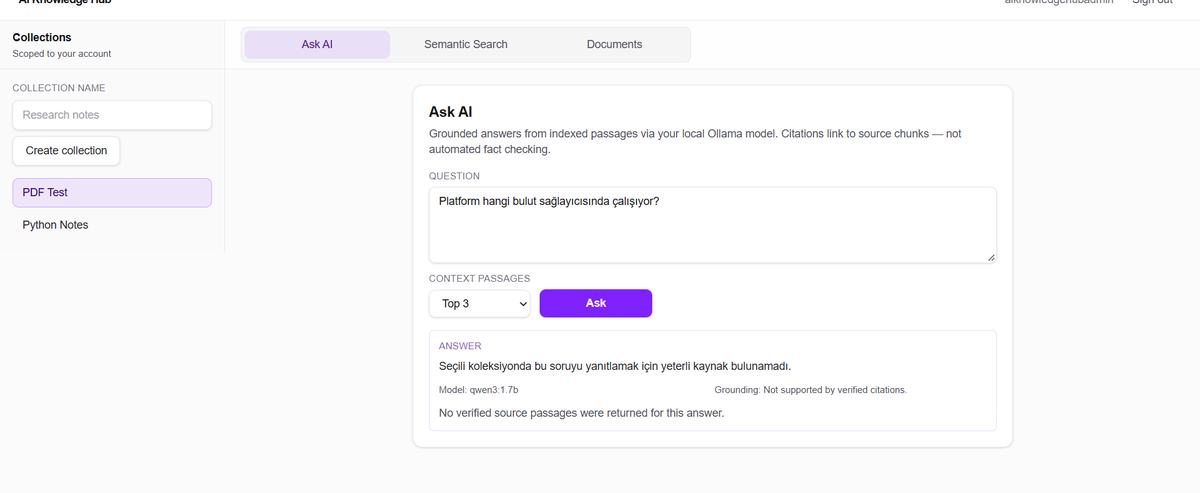
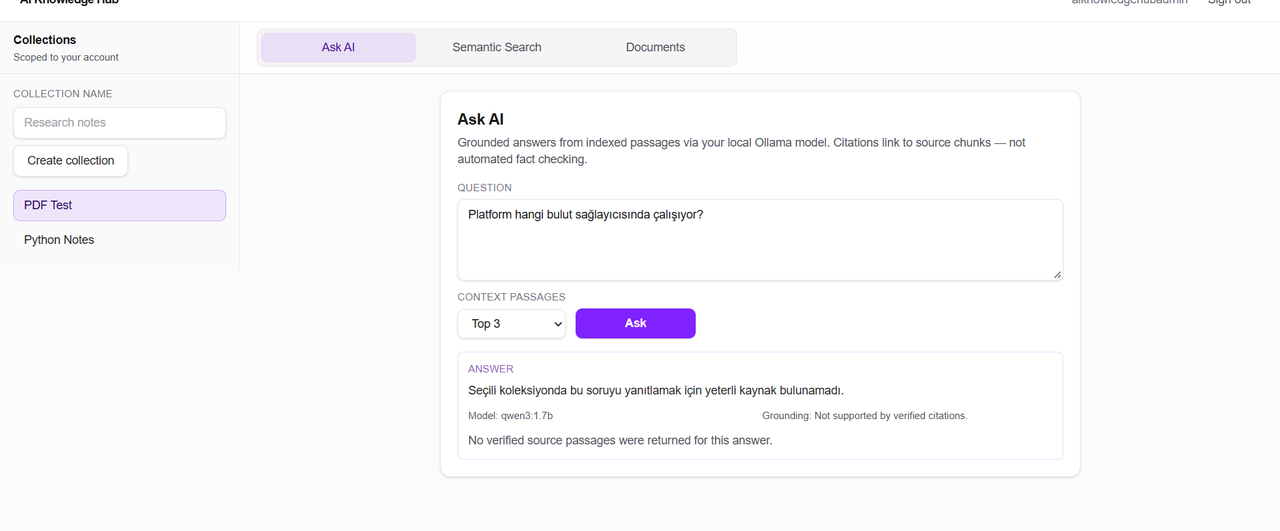
docs: README gallery, audit dates, and screenshot crops
Single-column gallery, PowerShell-friendly commands, October 2026 audit dates, looser source-evidence crop.

diff --git a/scripts/crop_portfolio_screenshots.py b/scripts/crop_portfolio_screenshots.py
@@ -10,8 +10,8 @@ OUT = REPO / "docs" / "screenshots"
 
 # Remove Chrome chrome (~top) and Windows taskbar + dev footer (~bottom).
 CHROME_TOP = 142
-FOOTER_BOTTOM = 96
-MAX_WIDTH = 1200
+FOOTER_BOTTOM = 88
+MAX_WIDTH = 1280
 
 
 def crop_app(src: str, dest: str, *, top: int = CHROME_TOP, bottom: int = FOOTER_BOTTOM) -> None:
@@ -30,7 +30,8 @@ def crop_app(src: str, dest: str, *, top: int = CHROME_TOP, bottom: int = FOOTER
 
 def main() -> None:
     crop_app("6.png", "ask-ai-grounded-answer.png")
-    crop_app("13.png", "ask-ai-source-evidence.png", bottom=110)
+    # Keep extra vertical space for expanded source passage text.
+    crop_app("13.png", "ask-ai-source-evidence.png", bottom=72)
     crop_app("9.png", "ask-ai-abstention.png")
     crop_app("3.png", "documents-indexed-pdf.png")
     crop_app("7.png", "ask-ai-numeric-fact.png")

diff --git a/README.tr.md b/README.tr.md
@@ -20,10 +20,29 @@ Aşağıdaki ekran görüntüleri, sentetik değerlendirme dosyası **`rag-test.
 
 ## Ekran görüntüleri (demo verisi)
 
-| | |
-| --- | --- |
-| ![Genişletilmiş PDF kaynağı: sayfa bilgisi ve alıntı metni](docs/screenshots/ask-ai-source-evidence.png)<br>*Kaynak **[S1]** açık: parça metni, sayfalar, kosinüs mesafesi.* | ![Belge desteklemeyen soruda güvenli çekimserlik](docs/screenshots/ask-ai-abstention.png)<br>*Doğrulanmış parça yok — uydurma cevap yok.* |
-| ![Documents sekmesinde indekslenmiş rag-test.pdf](docs/screenshots/documents-indexed-pdf.png)<br>*Yükle → işle → indeksle → **Ready**.* | ![PDF sayfa 3’ten sayısal bilgi ve atıf](docs/screenshots/ask-ai-numeric-fact.png)<br>*Tek bilgi tipi; çok parçalı sorular tutarlı yanıtlanmayabilir.* |
+### Kaynak kanıtı
+
+![Genişletilmiş PDF kaynağı: sayfa bilgisi ve alıntı metni](docs/screenshots/ask-ai-source-evidence.png)
+
+*Kaynak **[S1]** açık: parça metni, sayfalar, kosinüs mesafesi.*
+
+### Güvenli çekimserlik
+
+![Belge desteklemeyen soruda güvenli çekimserlik](docs/screenshots/ask-ai-abstention.png)
+
+*Doğrulanmış parça yok — uydurma cevap yok.*
+
+### Arama için hazır belge
+
+![Documents sekmesinde indekslenmiş rag-test.pdf](docs/screenshots/documents-indexed-pdf.png)
+
+*Yükle → işle → indeksle → **Ready**.*
+
+### Sayısal bilgi ve atıf
+
+![PDF sayfa 3’ten sayısal bilgi ve atıf](docs/screenshots/ask-ai-numeric-fact.png)
+
+*Tek bilgi tipi; çok parçalı sorular tutarlı yanıtlanmayabilir.*
 
 ## Belgeler yanıta nasıl dönüşür?
 
@@ -70,8 +89,14 @@ apps/web ──JWT/REST──► services/api ◄──► PostgreSQL (pgvector)
 Ayrıntı: [`docs/QUALITY_AUDIT.md`](docs/QUALITY_AUDIT.md)
 
 ```powershell
-npm run lint && npm run typecheck && npm run test --workspace=web && npm run build
-cd services/api && uv run ruff check . && uv run pytest && uv run pytest -m integration
+npm run lint
+npm run typecheck
+npm run test --workspace=web
+npm run build
+cd services\api
+uv run ruff check .
+uv run pytest
+uv run pytest -m integration
 ```
 
 ## Yerel kurulum

diff --git a/README.md b/README.md
@@ -22,10 +22,29 @@ Screenshots below use the synthetic evaluation PDF **`rag-test.pdf`** (fictional
 
 ## Screenshots (demonstration data)
 
-| | |
-| --- | --- |
-| ![Expanded PDF source passage with page metadata and retrieval rank](docs/screenshots/ask-ai-source-evidence.png)<br>*Source **[S1]** expanded: chunk text, pages, cosine distance.* | ![Safe abstention when the document does not support the question](docs/screenshots/ask-ai-abstention.png)<br>*No verified passages — the app refuses to invent an answer.* |
-| ![Indexed rag-test.pdf in the Documents tab](docs/screenshots/documents-indexed-pdf.png)<br>*Upload → process → index → **Ready**.* | ![Grounded numeric fact with citation to PDF page 3](docs/screenshots/ask-ai-numeric-fact.png)<br>*Single-fact retrieval; multi-part questions are not consistently handled.* |
+### Source evidence
+
+![Expanded PDF source passage with page metadata and retrieval rank](docs/screenshots/ask-ai-source-evidence.png)
+
+*Source **[S1]** expanded: chunk text, pages, cosine distance.*
+
+### Safe abstention
+
+![Safe abstention when the document does not support the question](docs/screenshots/ask-ai-abstention.png)
+
+*No verified passages — the app refuses to invent an answer.*
+
+### Document ready for search
+
+![Indexed rag-test.pdf in the Documents tab](docs/screenshots/documents-indexed-pdf.png)
+
+*Upload → process → index → **Ready**.*
+
+### Grounded numeric fact
+
+![Grounded numeric fact with citation to PDF page 3](docs/screenshots/ask-ai-numeric-fact.png)
+
+*Single-fact retrieval; multi-part questions are not consistently handled.*
 
 ## How documents become answers
 
@@ -72,8 +91,14 @@ On every push to `main`:
 Details: [`docs/QUALITY_AUDIT.md`](docs/QUALITY_AUDIT.md)
 
 ```powershell
-npm run lint && npm run typecheck && npm run test --workspace=web && npm run build
-cd services/api && uv run ruff check . && uv run pytest && uv run pytest -m integration
+npm run lint
+npm run typecheck
+npm run test --workspace=web
+npm run build
+cd services\api
+uv run ruff check .
+uv run pytest
+uv run pytest -m integration
 ```
 
 ## Local setup

diff --git a/docs/HANDOFF.md b/docs/HANDOFF.md
@@ -454,7 +454,7 @@ POST /collections/{collection_id}/ask
 - **Retrieval eval:** `tests/test_rag_retrieval_eval.py` — synthetic Recall@3/5 and MRR = 1.0 on basis-vector fixture (mocked query embed); not a real-LLM benchmark.
 - **CI:** New GitHub Actions job **Backend integration (PostgreSQL)** — `pytest -m integration` against ephemeral `alembic_test_*` databases (pgvector service on port 5433).
 - **Docs:** `docs/QUALITY_AUDIT.md` — full findings register, test counts, portfolio vs production gaps.
-- **Local verification (2026-03-30):** backend unit **180** passed; integration **95** passed; frontend **41** passed; build OK.
+- **Local verification (2026-10-30):** backend unit **180** passed; integration **95** passed; frontend **41** passed; build OK.
 
 ## Phase 6A — GitHub README and screenshots (complete)
 

diff --git a/docs/QUALITY_AUDIT.md b/docs/QUALITY_AUDIT.md
@@ -1,4 +1,4 @@
-# Quality Audit — Phase 5D (2026-03-30)
+# Quality Audit — Phase 5D (October 2026)
 
 Audit scope: **reliability, security, reproducibility** of the current RAG MVP. No feature redesign. Evidence from **source review**, **local test runs**, and **targeted regression tests** added in this phase.
 
@@ -76,7 +76,7 @@ Existing integration coverage (not re-run with new binaries in CI):
 
 ## Test infrastructure and CI
 
-### Local runs (2026-03-30, Windows, Docker Postgres)
+### Local runs (2026-10-30, Windows, Docker Postgres)
 
 | Suite | Command | Result |
 | ----- | ------- | ------ |

diff --git a/docs/screenshots/README.md b/docs/screenshots/README.md
@@ -10,4 +10,4 @@ Final PNGs committed for GitHub README / README.tr.md. Raw captures stay in `_in
 | `documents-indexed-pdf.png` | `_incoming/3.png` | Ready document row |
 | `ask-ai-numeric-fact.png` | `_incoming/7.png` | Single numeric fact + citation |
 
-Regenerate crops: `uv run --with pillow python scripts/crop_portfolio_screenshots.py`
+Regenerate crops: `uv run --with pillow python scripts/crop_portfolio_screenshots.py` (max width 1280px; source-evidence keeps extra bottom margin).
